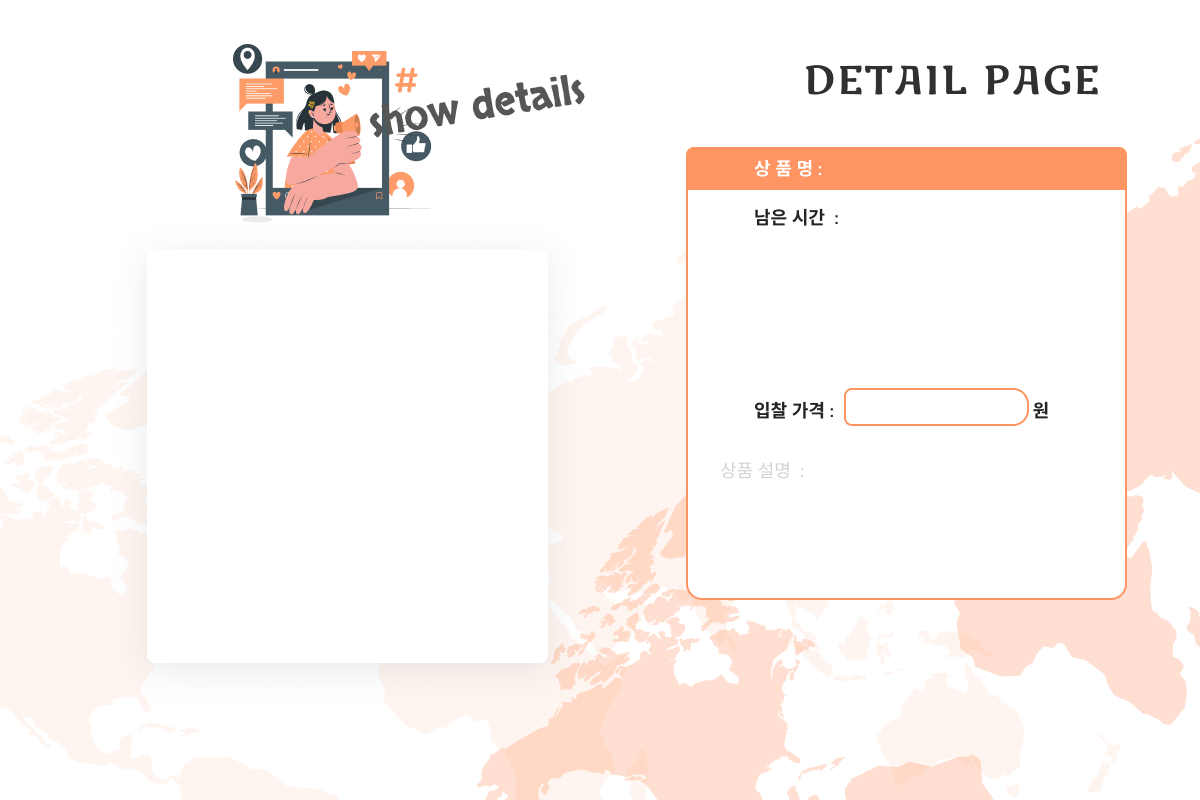
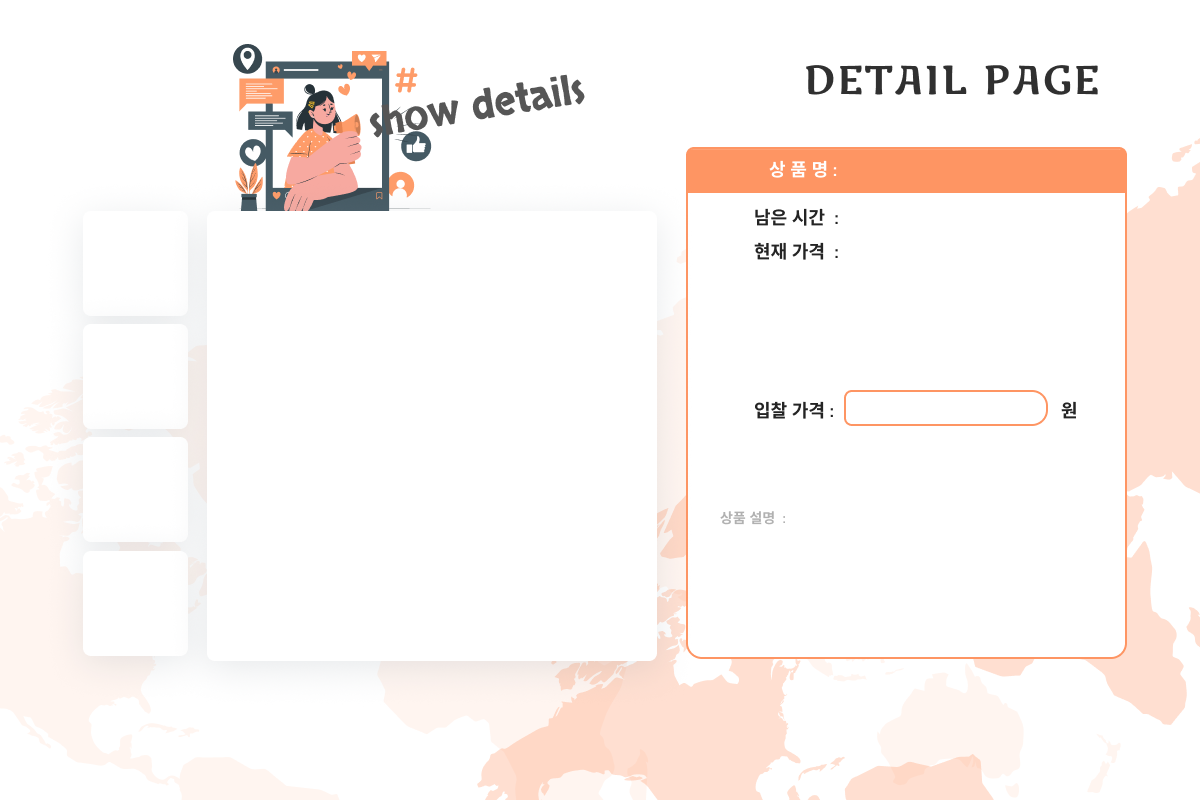
이미지 위치 수정

diff --git a/0623Start/src/secondweek/DetailFrame.java b/0623Start/src/secondweek/DetailFrame.java
@@ -138,7 +138,7 @@ public class DetailFrame extends JFrame {
 		contentPane.setLayout(null);
 
 		lblImage = new JLabel();
-		lblImage.setBounds(168, 240, 400, 400);
+		lblImage.setBounds(230, 215, 400, 400);
 		// 리스트를 불러오지 않고 DataBase에 저장된 Product에 있는 Blob 이미지를 사용하도록 수정
 		byte[] imageBites = null;
 		try {
@@ -155,7 +155,7 @@ public class DetailFrame extends JFrame {
 		// 작은 이미지 4개
 		for (int i = 0; i < MAX_IMAGES; i++) {
 			smallImageLabels[i] = new JLabel();
-			smallImageLabels[i].setBounds(40, 220 + 110 * i, 100, 100);
+			smallImageLabels[i].setBounds(81, 204 + 110 * i, 100, 100);
 			contentPane.add(smallImageLabels[i]);
 
 			smallImageLabels[i].setBorder(BorderFactory.createEmptyBorder());
@@ -210,44 +210,45 @@ public class DetailFrame extends JFrame {
 
 		lblName = new JLabel("제품명");
 		lblName.setFont(lblName.getFont().deriveFont(16f));
-		lblName.setBounds(850, 148, 150, 25);
+		lblName.setBounds(850, 150, 150, 25);
 		lblDetail = new JLabel("상세설명");
 		lblDetail.setForeground(Color.GRAY);
-		lblDetail.setBounds(740, 420, 226, 116);
+		
+		lblDetail.setBounds(720, 480, 360, 116);
+		lblDetail.setToolTipText(lblDetail.getText());
 		lblTime = new JLabel("00:00:00");
 		lblTime.setFont(new Font("돋움", Font.BOLD, 20));
 		lblTime.setForeground(Color.RED);
 		lblTime.setFont(lblTime.getFont().deriveFont(16f));
 		lblTime.setBounds(850, 200, 150, 20);
-		JLabel nowprice = new JLabel("현재 가격 : ");
-		nowprice.setBounds(750, 230, 100, 20);
 		lblPrice = new JLabel("가격");
-		lblPrice.setBounds(850, 230, 150, 15);
+		lblPrice.setBounds(850, 235, 150, 15);
+		lblPrice.setFont(new Font("돋움", Font.BOLD, 20));
 		lblPrice.setFont(lblPrice.getFont().deriveFont(14f));
 		lblPriceMin = new JLabel("최소입찰가 : 0원");
 		lblPriceMin.setFont(lblPrice.getFont().deriveFont(12f));
-		lblPriceMin.setBounds(850, 408, 150, 15);
+		lblPriceMin.setBounds(850, 410, 150, 15);
 		lblPriceMin.setForeground(Color.GRAY);
 
 		JLabel lblMessage = new JLabel("입찰가격은 최소입찰가를 상회해야 합니다.");
 		lblMessage.setForeground(Color.darkGray);
-		lblMessage.setBounds(760, 415, 268, 35);
+		lblMessage.setBounds(800, 430, 268, 35);
 		lblMessage.setFont(new Font("맑은 고딕", Font.BOLD, 12));
 
 		lblisOwn = new JLabel();
 		lblisOwn.setBounds(200, 646, 400, 35);
 		lblisOwn.setFont(new Font("맑은 고딕", Font.BOLD, 18));
 		lblisContinue = new JLabel();
-		lblisContinue.setBounds(200, 680, 400, 35);
+		lblisContinue.setBounds(200, 668, 400, 35);
 		lblisContinue.setFont(new Font("맑은 고딕", Font.BOLD, 18));
 
 		JTextField priceTF = new JTextField(10);
 		PlainDocument docPrice = (PlainDocument) priceTF.getDocument();
 		docPrice.setDocumentFilter(new NumberOnlyFilter(15));
-		priceTF.setBounds(843, 380, 160, 25);
+		priceTF.setBounds(850, 380, 165, 25);
 
 		JButton participateBtn = new JButton();
-		participateBtn.setBounds(730, 620, 350, 100);
+		participateBtn.setBounds(730, 640, 350, 100);
 		participateBtn.setContentAreaFilled(false);
 		participateBtn.setBorderPainted(false);
 		ImageIcon imgbid = new ImageIcon("img/bid_1.png");
@@ -350,26 +351,26 @@ public class DetailFrame extends JFrame {
 
 		// 이전가격 라벨 추가
 		JLabel prePriceInfoLbl = new JLabel("최근 입찰가 : ");
-		prePriceInfoLbl.setBounds(750, 250, 200, 200);
+		prePriceInfoLbl.setBounds(750, 190, 200, 200);
 		prePriceInfoLbl.setFont(new Font("돋움", Font.BOLD, 13));
 		prePriceLbl1 = new JLabel("(가장오래된) 입찰가1");
-		prePriceLbl1.setBounds(850, 195, 150, 20);
+		prePriceLbl1.setBounds(850, 260, 150, 20);
 		prePriceLbl1.setForeground(Color.GRAY);
 		prePriceLbl2 = new JLabel("입찰가2");
-		prePriceLbl2.setBounds(850, 215, 150, 20);
+		prePriceLbl2.setBounds(850, 280, 150, 20);
 		prePriceLbl2.setForeground(Color.GRAY);
 		prePriceLbl3 = new JLabel("입찰가3");
-		prePriceLbl3.setBounds(850, 235, 150, 20);
+		prePriceLbl3.setBounds(850, 300, 150, 20);
 		prePriceLbl3.setForeground(Color.GRAY);
 		prePriceLbl4 = new JLabel("(가장최근) 입찰가4");
-		prePriceLbl4.setBounds(850, 255, 150, 20);
+		prePriceLbl4.setBounds(850, 320, 150, 20);
 		prePriceLbl4.setForeground(Color.GRAY);
 
 		contentPane.add(prePriceInfoLbl);
-		prePriceInfoLbl.add(prePriceLbl1);
-		prePriceInfoLbl.add(prePriceLbl2);
-		prePriceInfoLbl.add(prePriceLbl3);
-		prePriceInfoLbl.add(prePriceLbl4);
+		contentPane.add(prePriceLbl1);
+		contentPane.add(prePriceLbl2);
+		contentPane.add(prePriceLbl3);
+		contentPane.add(prePriceLbl4);
 
 		contentPane.add(lblImage);
 		contentPane.add(lblName);
@@ -456,10 +457,10 @@ public class DetailFrame extends JFrame {
 			lblPrice.setText(formatInt(product.getProductPriceNow()));
 			lblPriceMin.setText("최소입찰가 : " + formatInt(PriceMin(product.getProductPriceNow(), product.getAuctionNo())));
 
-			prePriceLbl1.setText("");
-			prePriceLbl2.setText("");
-			prePriceLbl3.setText("");
 			prePriceLbl4.setText("");
+			prePriceLbl3.setText("");
+			prePriceLbl2.setText("");
+			prePriceLbl1.setText("");
 
 			List<Integer> priceList = timer.participateList(product.getAuctionNo(), conn);
 			if (priceList != null) {

diff --git a/0623Start/src/secondweek/RegistFrame.java b/0623Start/src/secondweek/RegistFrame.java
@@ -138,7 +138,7 @@ public class RegistFrame extends JFrame {
 		contentPane.add(imageRoot4);
 
 		mainImageLabel = new JLabel();
-		mainImageLabel.setBounds(240, 100, 400, 400);
+		mainImageLabel.setBounds(240, 90, 400, 400);
 		contentPane.add(mainImageLabel);
 		for (int i = 0; i < MAX_IMAGES; i++) {
 		    smallImageLabels[i] = new JLabel();
@@ -315,7 +315,7 @@ public class RegistFrame extends JFrame {
 		    }
 		});
 		detailBox = new JTextArea(5, 20); // 상세정보 입력칸
-		detailBox.setBounds(730, 360, 350, 180);
+		detailBox.setBounds(730, 365, 350, 180);
 		contentPane.add(detailBox);
 		detailBox.setColumns(10);
 		detailBox.setLineWrap(true);
@@ -370,7 +370,7 @@ public class RegistFrame extends JFrame {
 
 		String[] auctionTimeOptions = { "1시간", "4시간", "24시간" };
 		JComboBox<String> auctionTimeBox = new JComboBox<>(auctionTimeOptions);
-		auctionTimeBox.setBounds(825, 230, 190, 25); // 위치와 크기를 설정해주세요.
+		auctionTimeBox.setBounds(825, 253, 200, 35); // 위치와 크기를 설정해주세요.
 		contentPane.add(auctionTimeBox);
 
 		registrationBtn.addActionListener(new ActionListener() {
@@ -567,22 +567,22 @@ public class RegistFrame extends JFrame {
 			}
 		});
 		JButton mainBtn = new JButton();
-		mainBtn.setBounds(970, 680, 130, 50);
-		ImageIcon imgmain = new ImageIcon("img/gomain_1.png");
+		mainBtn.setBounds(970, 680, 130, 48);
+		ImageIcon imgmain = new ImageIcon("img/Goback_1.png");
 		mainBtn.setContentAreaFilled(false);
 		mainBtn.setBorderPainted(false);
 		mainBtn.setIcon(imgmain);
 		mainBtn.addMouseListener(new MouseAdapter() {
 			@Override
 			public void mouseExited(MouseEvent e) {
-				ImageIcon imgmain = new ImageIcon("img/gomain_1.png");
+				ImageIcon imgmain = new ImageIcon("img/Goback_1.png");
 				mainBtn.setIcon(imgmain);
 
 			}
 
 			@Override
 			public void mouseEntered(MouseEvent e) {
-				ImageIcon imgmain = new ImageIcon("img/gomain.png");
+				ImageIcon imgmain = new ImageIcon("img/Goback.png");
 				mainBtn.setIcon(imgmain);
 
 			}
@@ -593,8 +593,8 @@ public class RegistFrame extends JFrame {
 
 			@Override
 			public void actionPerformed(ActionEvent e) {
-				new AuctionFrame(data);
-				frame.setVisible(false);
+				new MypageFrame(data);
+				frame.dispose();
 			}
 		});
 

diff --git a/0623Start/src/secondweek/PasswordSearchFrame.java b/0623Start/src/secondweek/PasswordSearchFrame.java
@@ -28,6 +28,7 @@ public class PasswordSearchFrame extends JFrame {
 		frame = new JFrame();
 		frame.setSize(1200, 800);
 		frame.setDefaultCloseOperation(JFrame.EXIT_ON_CLOSE);
+		frame.setLocationRelativeTo(null);
 		frame.setResizable(false);
 		contentPane = new JPanel() {
 
@@ -155,7 +156,7 @@ public class PasswordSearchFrame extends JFrame {
 			public void actionPerformed(ActionEvent e) {
 				DataBase data = new DataBase();
 				new LoginFrame(data);
-				frame.setVisible(false);
+				frame.dispose();
 			}
 		});
 		contentPane.setLayout(null);

diff --git a/0623Start/src/secondweek/AuctionFrame.java b/0623Start/src/secondweek/AuctionFrame.java
@@ -239,6 +239,8 @@ public class AuctionFrame extends JFrame {
 		mypageBtn.addActionListener(new ActionListener() {
 			@Override
 			public void actionPerformed(ActionEvent e) {
+				new MypageFrame(data);
+				frame.dispose();
 				data.setIndexMain(0);
 				data.setIndexMainSearch(0);
 				data.setCheckBtn(false);
@@ -247,8 +249,7 @@ public class AuctionFrame extends JFrame {
 				data.setAuctionRadioText(null);
 				data.setPriceFrontText(null);
 				data.setPriceBackText(null);
-				new MypageFrame(data);
-				frame.dispose();
+				
 			}
 		});
 

diff --git a/0623Start/src/secondweek/MypageFrame.java b/0623Start/src/secondweek/MypageFrame.java
@@ -245,7 +245,7 @@ public class MypageFrame extends JFrame {
 
 				Toolkit toolkit = Toolkit.getDefaultToolkit();
 
-				Image image = toolkit.getImage("img/myPage_1.png");
+				Image image = toolkit.getImage("img/myPage_1.jpg");
 				g.drawImage(image, 0, 0, getWidth(), getHeight(), this);
 			}
 		};
